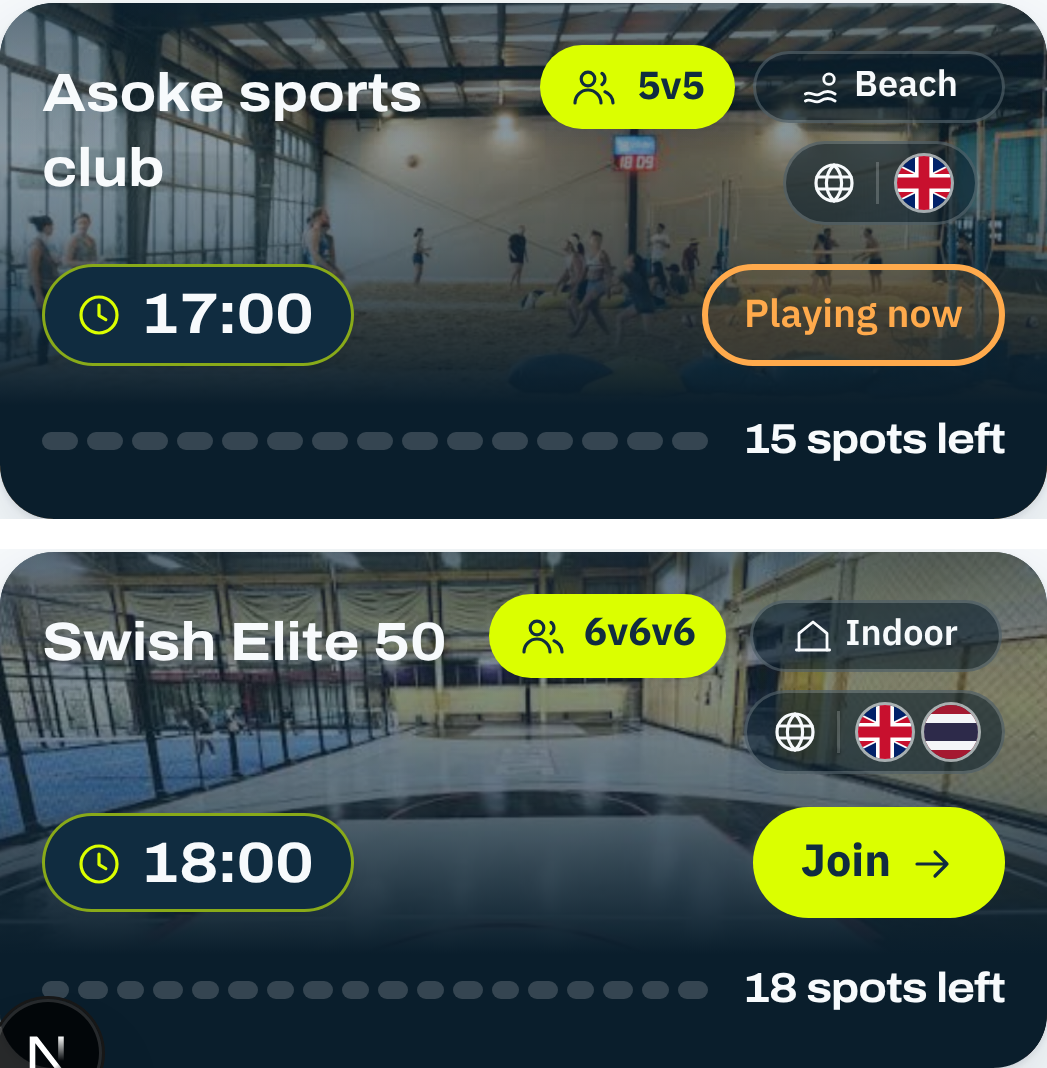
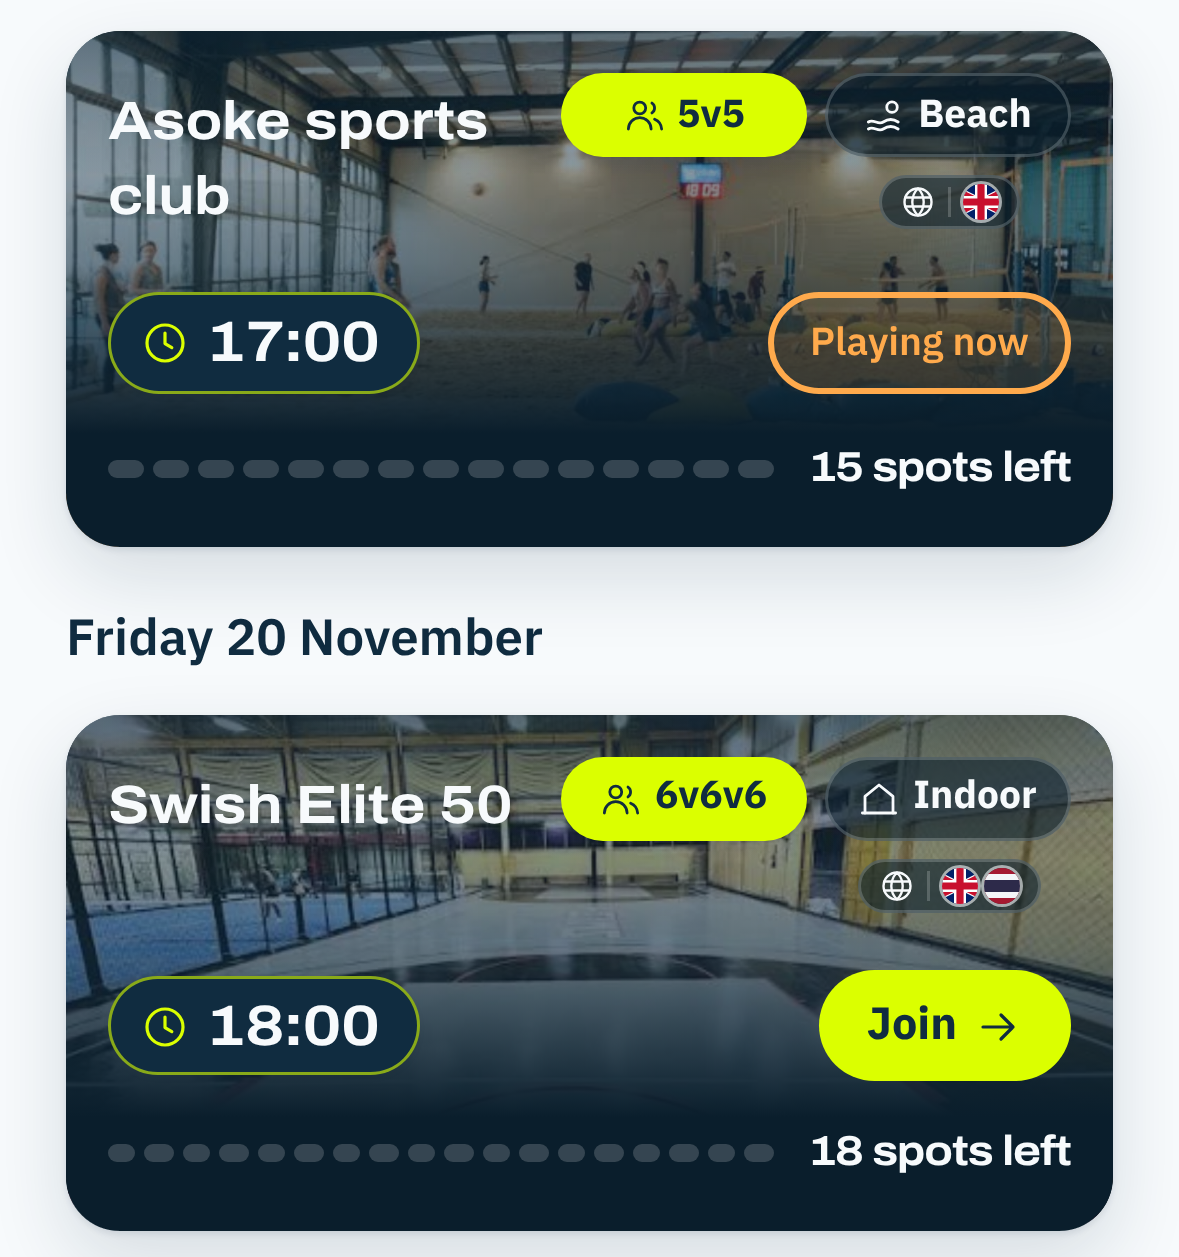
Game card: game type pill the size of the format pill, smaller languages
- Indoor/Beach now has the format pill's height, type size and width (both
  82px minimum, which holds the Thai labels too); the format keeps the lime,
  the game type the dark glass.
- The languages pill on the card is about a third smaller (18px tall, 12px
  flags, from 28 and 18), still centred under the game type. The game page
  and the admin form keep the full-size pill.
- The cluster is no wider than before, so a venue name like Swish Elite 50
  stays on one line. Both cards still measure 172px.

Claude-Session: https://claude.ai/code/session_01M3nzie131CXDQtmL21Agmr

diff --git a/components/game/CardBadges.tsx b/components/game/CardBadges.tsx
@@ -39,6 +39,14 @@ import type { GameSurface } from "@/lib/types/database";
  * the hierarchy the two-colour split above exists to draw. Same geometry, same
  * padding, same radius — different ink.
  */
+/**
+ * The shape both pills of the list card's cluster share: one height, one minimum width, one type size. Ink is per pill.
+ * 82px holds "Indoor", "6v6v6" and the Thai "ชายหาด" with their icons, and keeps the cluster no wider than before,
+ * so a venue name like "Swish Elite 50" still fits on one line beside it.
+ */
+const CARD_PILL =
+  "inline-flex h-7 min-w-[82px] shrink-0 items-center justify-center gap-1 rounded-pill px-2 text-small font-bold";
+
 const SURFACE_ICON: Record<GameSurface, IconName> = {
   indoor: "indoor",
   sand: "beach",
@@ -65,15 +73,15 @@ export async function CardBadges({
   if (!format && !surface && !language) return null;
 
   /*
-   * THE LIST CARD'S CLUSTER (owner, 17 Nov 2026, after a HrajFotbal screenshot):
+   * THE LIST CARD'S CLUSTER (owner, 17 Nov 2026, after a HrajFotbal screenshot, then "make the beach pill the same as
+   * the format pill in terms of size, and the languages … 30 to 40% smaller"):
    *
-   *   [ 5v5 ]  [ Beach ]          the format leads: lime, the height of the languages pill, the one bright thing
-   *            [ 🌐 | 🇬🇧 ]        up here; the game type is the small quiet pill on the far right, and the
-   *                               languages sit CENTRED under it, not right-aligned.
+   *   [ 5v5 ]  [ Beach ]          the format leads and the game type sits on the far right, the two at ONE size;
+   *              (🌐|🇬🇧)          the languages, the least important fact, are a small pill CENTRED under the
+   *                               game type.
    *
-   * ONE ACCENT. The game type was a white pill and the format a navy one with a lime icon: three treatments in one
-   * corner ("too many colours … a little bit too hectic"). Now lime is the format alone, and the game type wears the
-   * same dark glass as the languages pill. Indoor and Beach keep one fixed width so cards line up down a list.
+   * ONE ACCENT. Lime is the format alone; the game type wears the same dark glass as the languages pill, so the two
+   * equal pills still read in order. They share one minimum width, so Indoor and Beach line up down a list.
    */
   if (layout === "card") {
     if (!surface && !language && !format) return null;
@@ -82,9 +90,9 @@ export async function CardBadges({
         {format && (
           <span
             data-testid="game-format"
-            className="inline-flex h-7 shrink-0 items-center gap-1.5 rounded-pill bg-volt px-2.5 text-small font-bold tabular-nums text-ink"
+            className={`${CARD_PILL} bg-volt tabular-nums text-ink`}
           >
-            <Icon name="users" className="h-4 w-4" />
+            <Icon name="users" className="h-3.5 w-3.5" />
             {format}
           </span>
         )}
@@ -93,14 +101,13 @@ export async function CardBadges({
             {surface && (
               <span
                 data-testid="game-surface"
-                /* `mt-0.5` puts its middle on the format pill's middle (28px beside 24px). */
-                className="mt-0.5 inline-flex h-6 w-[84px] shrink-0 items-center justify-center gap-1 rounded-pill border border-hairline-strong bg-page/60 text-[12px] font-semibold text-bone"
+                className={`${CARD_PILL} border border-hairline-strong bg-page/60 text-bone`}
               >
                 <Icon name={SURFACE_ICON[surface]} className="h-3.5 w-3.5" />
                 {t.games.surface[surface]}
               </span>
             )}
-            {language && <LanguagePill language={language} />}
+            {language && <LanguagePill language={language} size="card" />}
           </div>
         )}
       </div>

diff --git a/components/game/__tests__/CardBadges.test.tsx b/components/game/__tests__/CardBadges.test.tsx
@@ -22,7 +22,7 @@ describe("CardBadges on a list card", () => {
     expect(html).toContain(strings.games.surface.sand);
   });
 
-  it("draws Indoor and Beach at one fixed width", async () => {
+  it("draws Indoor and Beach at one width", async () => {
     // Act
     const beach = tag(renderToStaticMarkup(await CardBadges({ format: null, surface: "sand", layout: "card" })), "game-surface");
     const indoor = tag(renderToStaticMarkup(await CardBadges({ format: null, surface: "indoor", layout: "card" })), "game-surface");
@@ -38,7 +38,7 @@ describe("CardBadges on a list card", () => {
    * around the same size as the languages … make it stand out a bit more", the game type "a bit smaller … all the
    * way to the right", and the languages "under the newly placed beach or indoor … centered".
    */
-  it("puts the format first, as a lime pill the height of the languages pill", async () => {
+  it("puts the format first, as the lime pill", async () => {
     // Act
     const html = renderToStaticMarkup(
       await CardBadges({ format: "6v6", surface: "indoor", language: "en", layout: "card" }),
@@ -51,14 +51,34 @@ describe("CardBadges on a list card", () => {
     expect(html.indexOf('data-testid="game-format"')).toBeLessThan(html.indexOf('data-testid="game-surface"'));
   });
 
-  it("makes the game type the smaller, quiet pill", async () => {
+  /*
+   * ONE SIZE FOR THE TWO PILLS, SMALLER LANGUAGES (owner, 17 Nov 2026): "make the beach pill the same as the format
+   * pill in terms of size, and the languages … a bit smaller because it's not so important … like 30 to 40% smaller,
+   * so it's still clear and you can read it".
+   */
+  it("draws the game type at the format pill's size, in the quieter ink", async () => {
     // Act
     const html = renderToStaticMarkup(await CardBadges({ format: "6v6", surface: "indoor", layout: "card" }));
 
     // Assert
+    const format = tag(html, "game-format");
     const surface = tag(html, "game-surface");
-    expect(surface).not.toContain("h-7");
-    expect(surface).not.toContain("bg-cloud");
+    const size = (s: string) => s.match(/(?<![\w-])(h-\d+|text-small|(?:min-)?w-\[\d+px\])(?![\w-])/g)?.sort();
+    expect(size(surface)).toEqual(size(format));
+    expect(surface).not.toContain("bg-volt");
+  });
+
+  it("draws the languages about a third smaller on the card", async () => {
+    // Act
+    const card = renderToStaticMarkup(await CardBadges({ format: null, surface: "indoor", language: "en-th", layout: "card" }));
+    const page = renderToStaticMarkup(await CardBadges({ format: null, surface: null, language: "en-th" }));
+
+    // Assert
+    const height = (html: string) => Number(tag(html, "language-pill").match(/\bh-\[(\d+)px\]|\bh-(\d+)\b/)?.slice(1).find(Boolean) ?? NaN);
+    const px = (html: string) => (tag(html, "language-pill").includes("h-[") ? height(html) : height(html) * 4);
+    const ratio = px(card) / px(page);
+    expect(ratio).toBeGreaterThanOrEqual(0.6);
+    expect(ratio).toBeLessThanOrEqual(0.7);
   });
 
   it("centres the languages under the game type", async () => {

diff --git a/components/game/LanguagePill.tsx b/components/game/LanguagePill.tsx
@@ -6,7 +6,7 @@ import {
   FlagTH,
   FlagUA,
 } from "@/components/flags/Flags";
-import { RoundFlag } from "@/components/flags/RoundFlag";
+import { ROUND_FLAG_PX, RoundFlag } from "@/components/flags/RoundFlag";
 import type { GameLanguage } from "@/lib/games/language";
 
 /**
@@ -25,18 +25,29 @@ const FLAGS = {
   "uk-ru": [FlagUA, FlagRU],
 } as const;
 
-export function LanguagePill({ language }: { language: GameLanguage }) {
+/**
+ * TWO SIZES. `card` is the game card's: about a third smaller than the default (owner, 17 Nov 2026: the languages
+ * are "not so important … like 30 to 40% smaller, so it's still clear and you can read it") — 18px tall against 28,
+ * flags 12px against 18. The game page and the admin form keep the default.
+ */
+const SIZES = {
+  default: { pill: "h-7 gap-1.5 px-2", globe: "h-4 w-4", divider: "h-3.5", flags: "gap-1", flagPx: ROUND_FLAG_PX },
+  card: { pill: "h-[18px] gap-1 px-1.5", globe: "h-3 w-3", divider: "h-2.5", flags: "gap-0.5", flagPx: 12 },
+} as const;
+
+export function LanguagePill({ language, size = "default" }: { language: GameLanguage; size?: keyof typeof SIZES }) {
+  const look = SIZES[size];
   return (
     <span
       data-testid="language-pill"
       data-language={language}
-      className="inline-flex h-7 shrink-0 items-center gap-1.5 rounded-pill border border-hairline-strong bg-page/60 px-2"
+      className={`inline-flex shrink-0 items-center rounded-pill border border-hairline-strong bg-page/60 ${look.pill}`}
     >
-      <Icon name="globe" className="h-4 w-4 text-bone" />
-      <span aria-hidden className="h-3.5 w-px bg-hairline-strong" />
-      <span className="inline-flex items-center gap-1">
+      <Icon name="globe" className={`${look.globe} text-bone`} />
+      <span aria-hidden className={`${look.divider} w-px bg-hairline-strong`} />
+      <span className={`inline-flex items-center ${look.flags}`}>
         {FLAGS[language].map((Flag, index) => (
-          <RoundFlag key={index} Flag={Flag} testId="language-pill-half" />
+          <RoundFlag key={index} Flag={Flag} size={look.flagPx} testId="language-pill-half" />
         ))}
       </span>
     </span>
